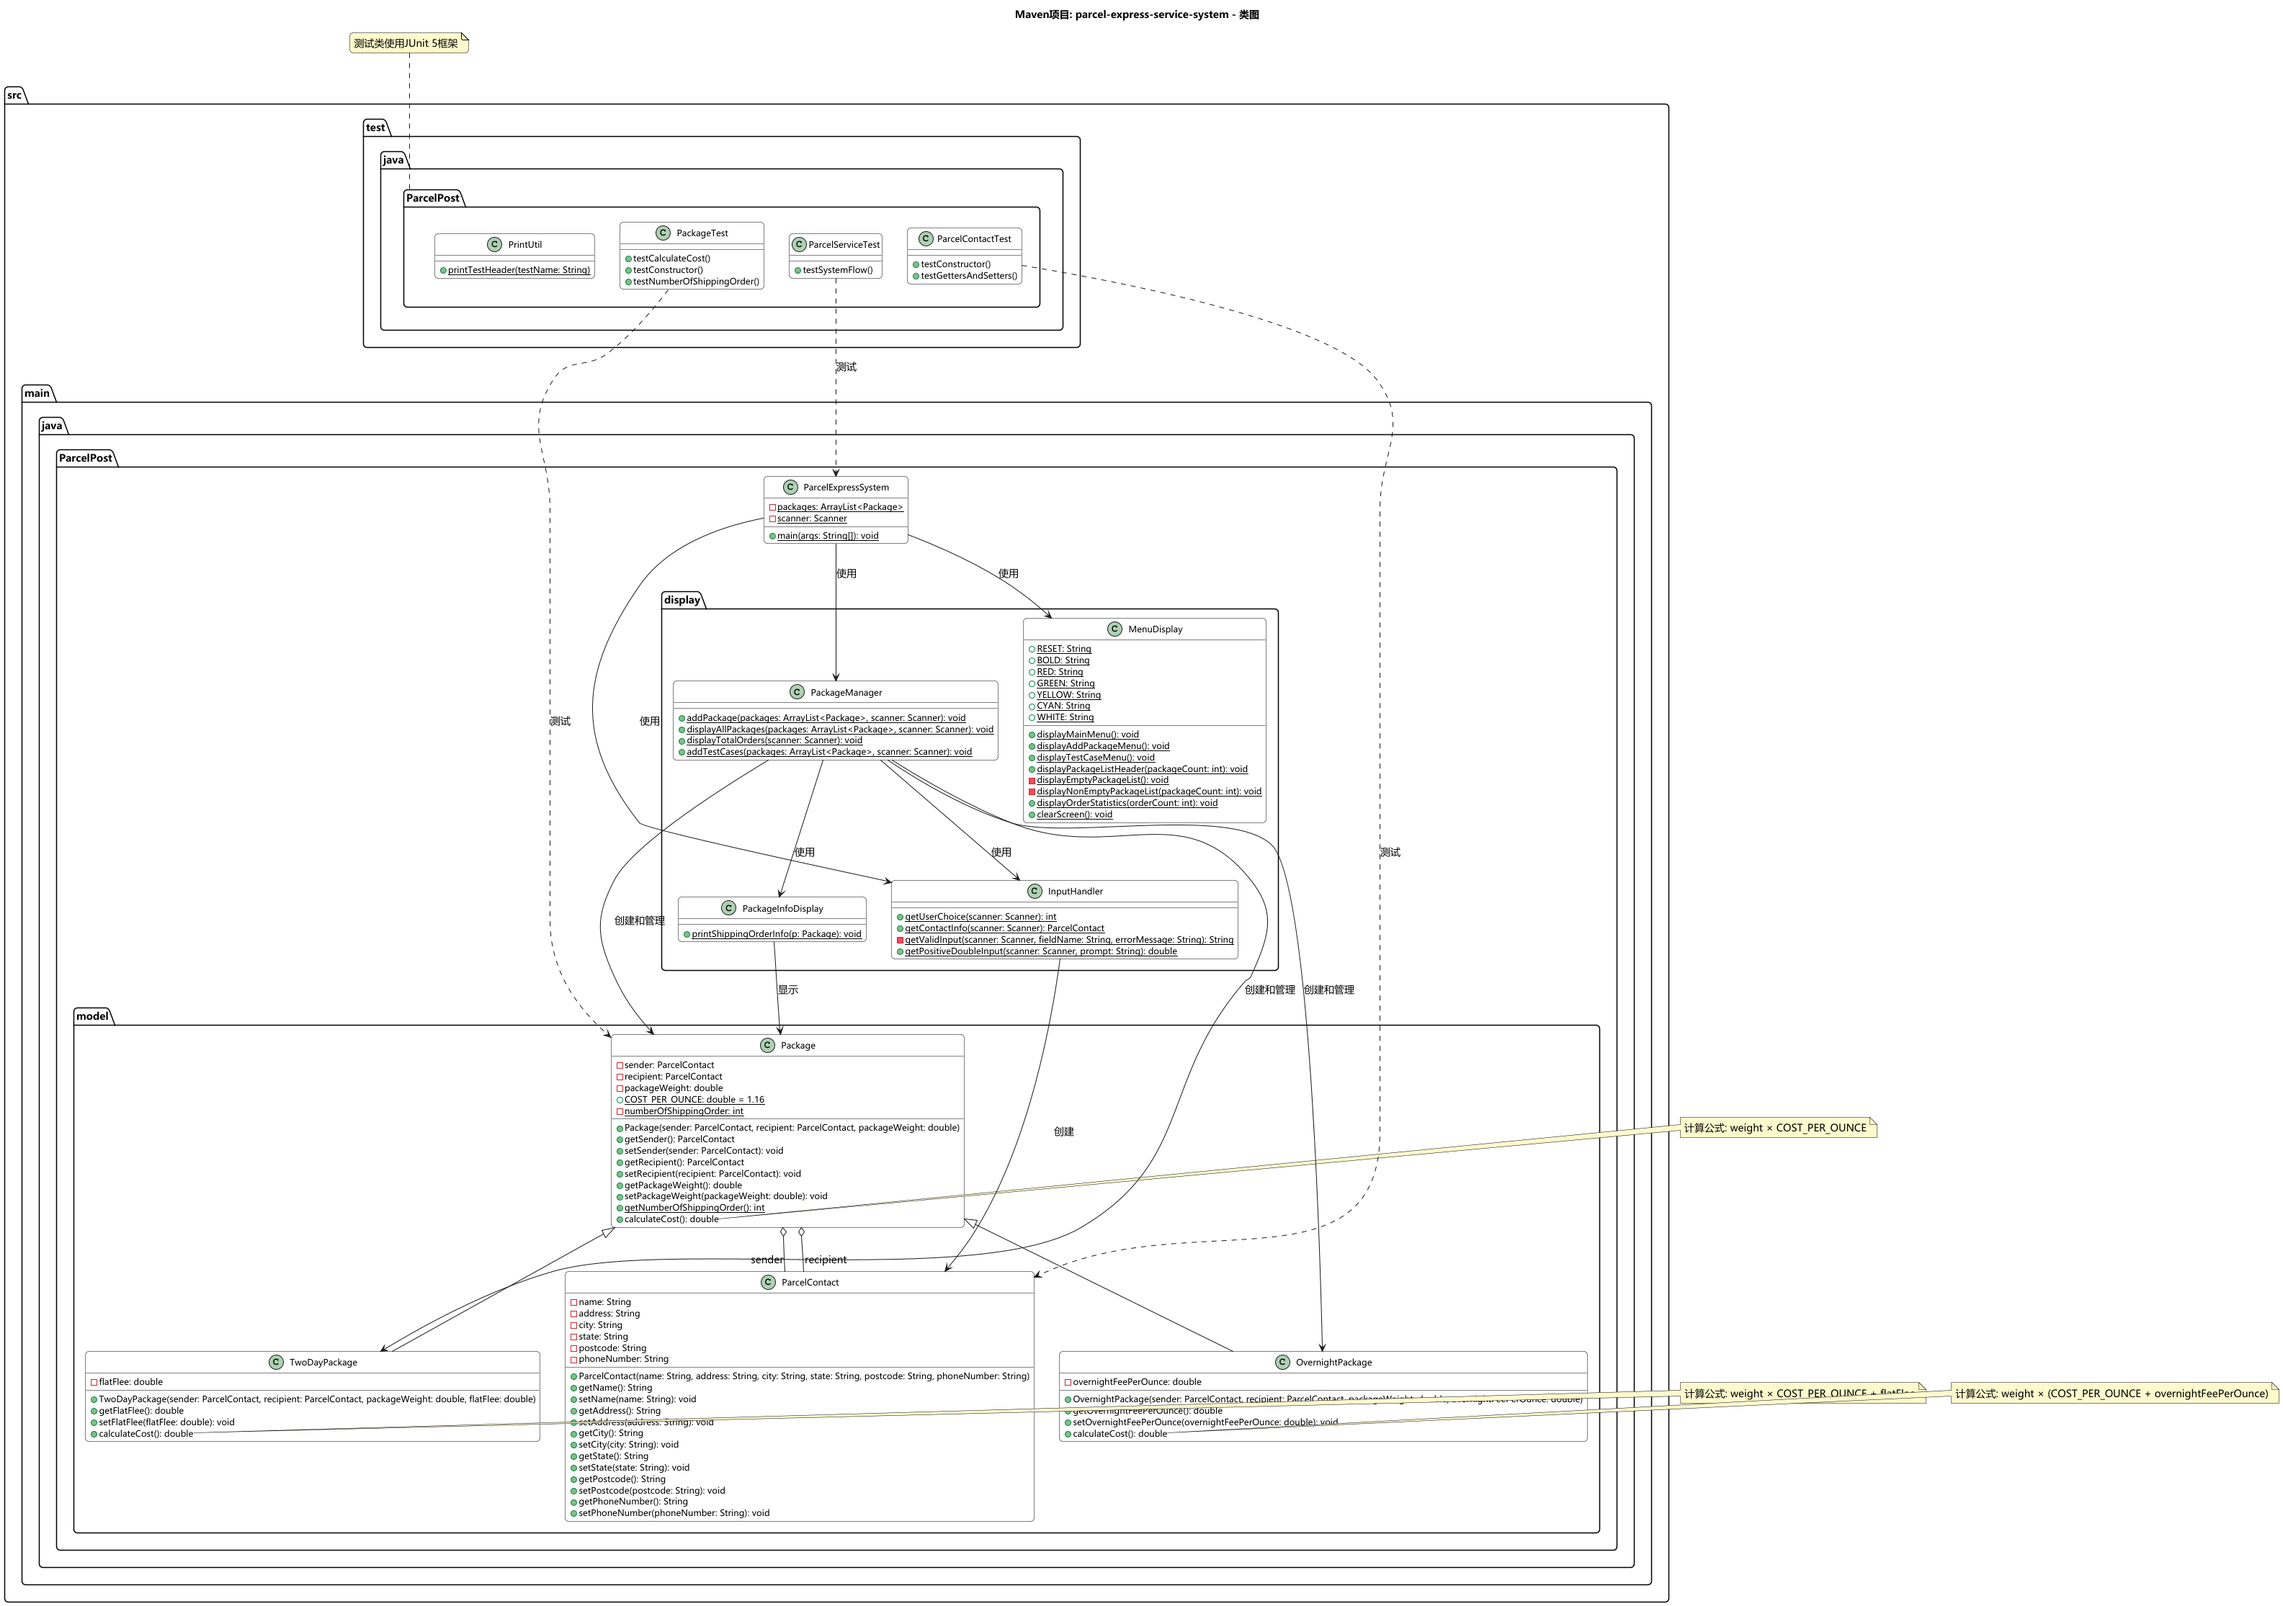
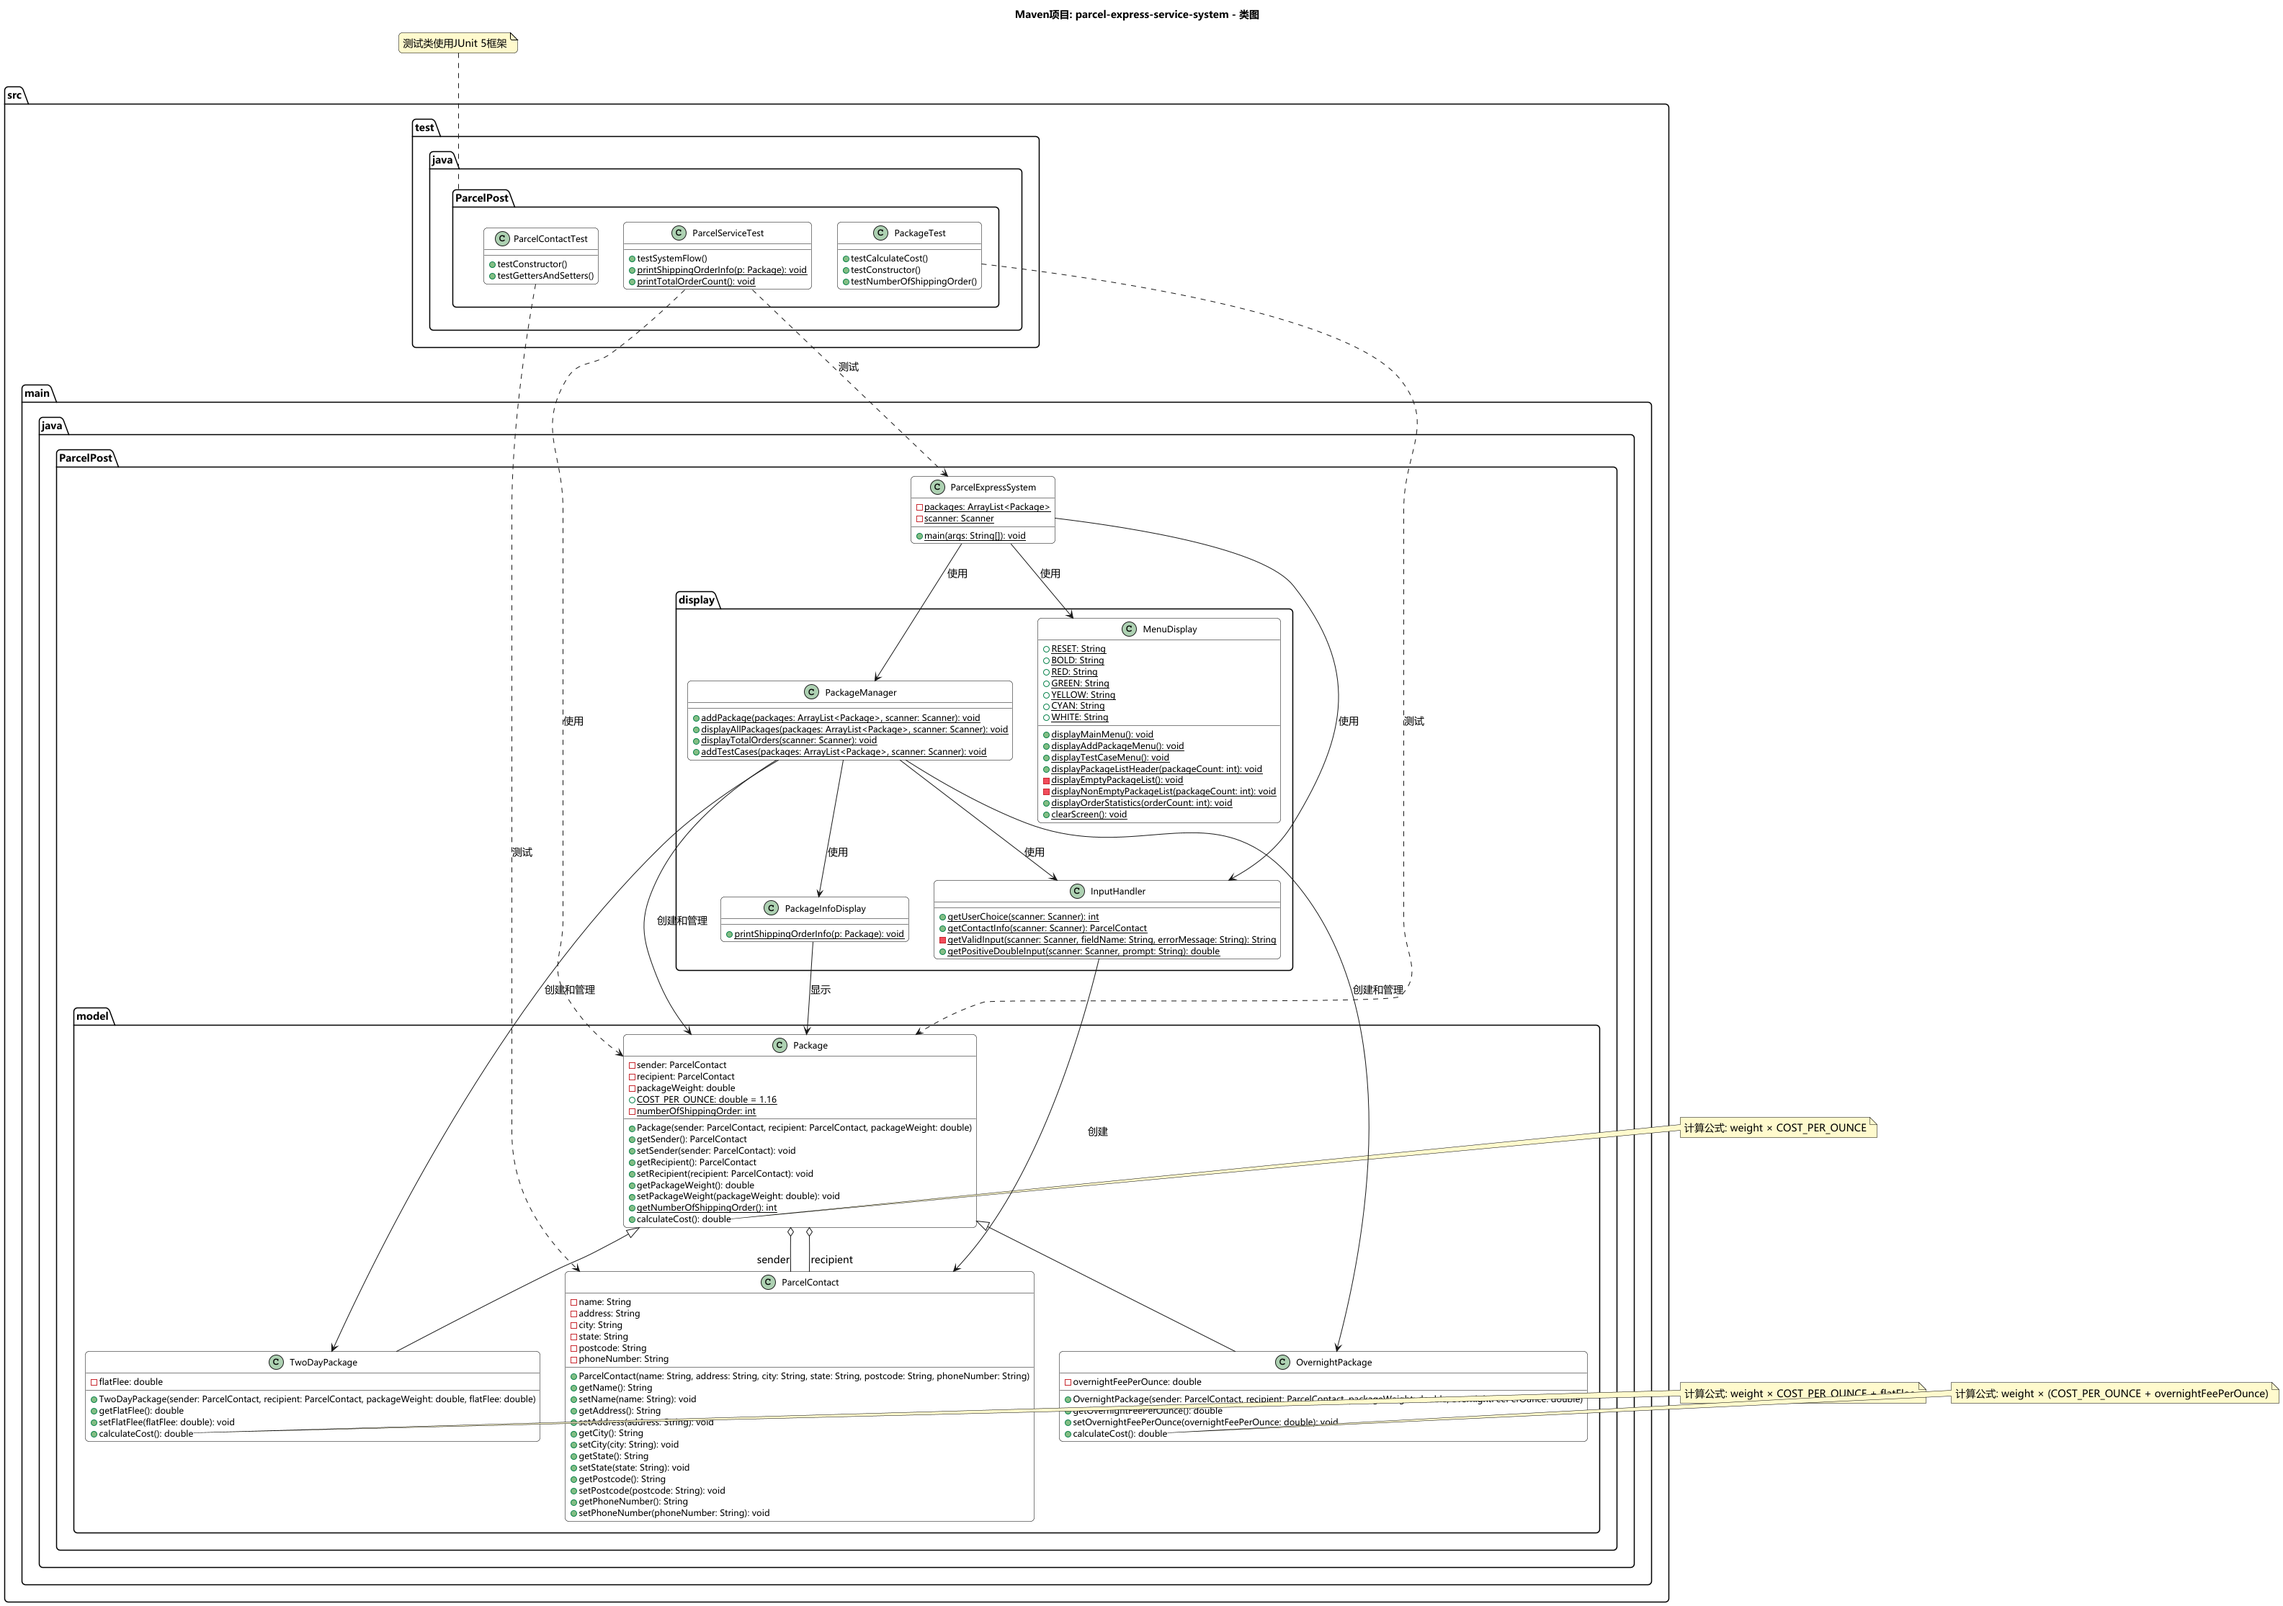
1.1.1
- improved some code comments
- merged test case classes
- optimize code expression

diff --git a/src/test/java/ParcelPost/UseTestCases.java b/src/test/java/ParcelPost/UseTestCases.java
@@ -1,0 +1,115 @@
+package ParcelPost;
+
+import java.util.ArrayList;
+import org.junit.jupiter.api.Test;
+import org.junit.jupiter.api.DisplayName;
+
+import ParcelPost.model.Package;
+import ParcelPost.model.TwoDayPackage;
+import ParcelPost.model.OvernightPackage;
+import ParcelPost.model.ParcelContact;
+
+/**
+ * 使用题目中测试用例
+ * 
+ * @version 1.0
+ * @since 2025-06-14
+ */
+public class UseTestCases {
+
+    /**
+     * 打印运单信息
+     * @param p 要打印的包裹对象
+     */
+    public static void printShippingOrderInfo(Package p) {
+        System.out.println("==========================================");
+        
+        // 判断并打印包裹类型
+        String parcelType;
+        if (p instanceof TwoDayPackage)
+            parcelType = "TwoDayPackage";
+        else if (p instanceof OvernightPackage)
+            parcelType = "OvernightPackage";
+        else
+            parcelType = "Package";
+        
+        System.out.println("[••• PARCEL TYPE •••] " + parcelType);
+        System.out.println();
+
+        // 打印寄件人信息
+        System.out.println("From: " + p.getSender().getName());
+        System.out.println(p.getSender().getAddress() + ", " + p.getSender().getCity() + ", " + p.getSender().getState());
+        System.out.println("Tel: " + p.getSender().getPhoneNumber() + " ZIP: " + p.getSender().getPostcode());
+        System.out.println();
+
+        // 打印收件人信息
+        System.out.println("To: " + p.getRecipient().getName());
+        System.out.println(p.getRecipient().getAddress() + ", " + p.getRecipient().getCity() + ", " + p.getRecipient().getState());
+        System.out.println("Tel: " + p.getRecipient().getPhoneNumber() + " ZIP: " + p.getRecipient().getPostcode());
+        System.out.println();
+
+        // 打印重量和费用
+        System.out.printf("WEIGHT: %.2f ounce\n", p.getPackageWeight());
+        System.out.printf("PAYMENT: $ %.2f\n", p.calculateCost());
+        
+        System.out.println("==========================================");
+        System.out.println();
+    }
+    
+    /**
+     * 打印快递公司总运单数
+     */
+    public static void printTotalOrderCount() {
+        System.out.println("快递公司总共产生了 " + Package.getNumberOfShippingOrder() + " 个运单。");
+    }
+
+    @Test
+    @DisplayName("题目测试用例")
+    public void testParcelService() {
+        // 重置订单计数器
+        Package.resetOrderCount();
+        
+        // 创建包裹列表
+        ArrayList<Package> packages = new ArrayList<>();
+
+        // --- 使用文档中的测试用例 ---
+        // 包裹1: 普通包裹
+        ParcelContact sender1 = new ParcelContact("LeBron James", "#23 Main St", "Cleveland", "Ohio", "11111", "(+86)139-1111-1111");
+        ParcelContact recipient1 = new ParcelContact("Dirk Nowitzki", "#41 Waterview Pkwy", "Dallas", "Texas", "22222", "(+86)139-2222-2222");
+        Package package1 = new Package(sender1, recipient1, 3.02);
+        packages.add(package1);
+
+        // 包裹2: 隔日送达包裹
+        ParcelContact sender2 = new ParcelContact("Kobe Bryant", "#24 Broadway", "Los Angeles", "California", "33333", "(+86)139-3333-3333");
+        ParcelContact recipient2 = new ParcelContact("Michael Jordan", "#23 King Rd", "Chicago", "Illinois", "44444", "(+86)139-4444-4444");
+        TwoDayPackage package2 = new TwoDayPackage(sender2, recipient2, 12.28, 5.5);
+        packages.add(package2);
+        
+        // 包裹3: 隔夜送达包裹
+        ParcelContact sender3 = new ParcelContact("James Harden", "#13 Oak St", "Houston", "Texas", "55555", "(+86)139-5555-5555");
+        ParcelContact recipient3 = new ParcelContact("Stephen Curry", "#30 Cambridge Rd", "San Francisco", "California", "66666", "(+86)139-6666-6666");
+        OvernightPackage package3 = new OvernightPackage(sender3, recipient3, 11.24, 0.75);
+        packages.add(package3);
+
+        System.out.println("\n=============== 题目测试用例 ===============\n");
+        
+        // 打印信息
+        for (Package p : packages) {
+            printShippingOrderInfo(p);
+        }
+        
+        // 打印总运单数
+        printTotalOrderCount();
+        
+        System.out.println("\n==========================================\n");
+    }
+    
+    /**
+     * 手动运行测试用例
+     */
+    public static void main(String[] args) {
+        // 创建测试实例并手动运行测试
+        UseTestCases test = new UseTestCases();
+        test.testParcelService();
+    }
+} 

diff --git a/src/main/java/ParcelPost/display/PackageManager.java b/src/main/java/ParcelPost/display/PackageManager.java
@@ -88,7 +88,7 @@ public class PackageManager {
         try {
             MenuDisplay.displayPackageListHeader(packages.size());
             
-            if (packages.size() == 0) {
+            if (packages.isEmpty()) {
                 scanner.nextLine();
                 return;
             }
@@ -110,7 +110,6 @@ public class PackageManager {
                     System.exit(1);
                 }
             }
-            
             System.out.print(MenuDisplay.YELLOW + "\n按回车键继续..." + MenuDisplay.RESET);
             scanner.nextLine();
         } catch (Exception e) {

diff --git a/src/test/java/ParcelPost/PackageTest.java b/src/test/java/ParcelPost/PackageTest.java
@@ -14,6 +14,9 @@ import ParcelPost.model.ParcelContact;
 
 /**
  * 包裹类的单元测试
+ * 
+ * @version 1.0
+ * @since 2025-06-14
  */
 public class PackageTest {
     private ParcelContact sender1, recipient1;

diff --git a/src/test/java/ParcelPost/ParcelContactTest.java b/src/test/java/ParcelPost/ParcelContactTest.java
@@ -10,6 +10,9 @@ import ParcelPost.model.ParcelContact;
 /**
  * ParcelContact类单元测试
  * 测试 Lombok 能不能用
+ * 
+ * @version 1.0
+ * @since 2025-06-14
  */
 public class ParcelContactTest {
     

diff --git a/docs/project_document.md b/docs/project_document.md
@@ -196,8 +196,7 @@ parcel-express-service-system/
 │           └── ParcelPost/
 │               ├── PackageTest.java
 │               ├── ParcelContactTest.java
-│               ├── ParcelServiceTest.java
-│               └── PrintUtil.java
+│               └── ParcelServiceTest.java   # 包含了原PrintUtil.java的功能
 ├── target/        # Maven构建输出目录
 ├── docs/
 │   ├── diagrams/  # UML图表
